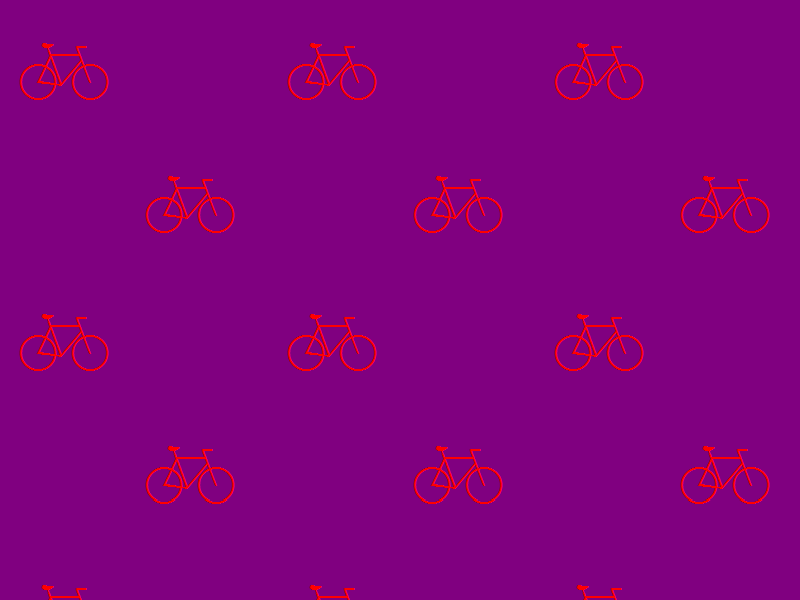
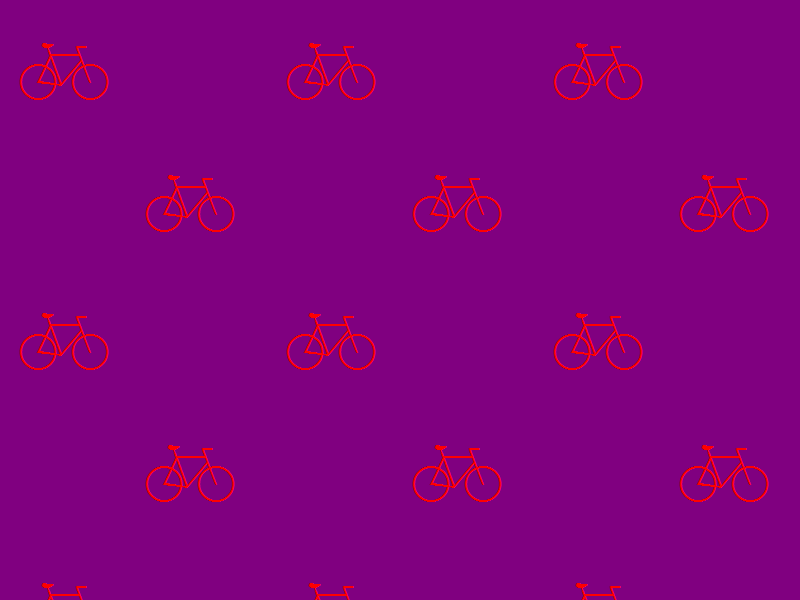
Fix Facebook sidebar.
Relanding http://codereview.chromium.org/20386 (r9836), this time 
with re-baselined layout tests. The change affects the pixel diffs for 
any test with a tiled css background image.

BUG = 5564
TBR= brettw
TEST= layout tests, conveniently re-baselined to pass with this change :)
Review URL: http://codereview.chromium.org/20388

git-svn-id: svn://svn.chromium.org/chrome/trunk@9839 0039d316-1c4b-4281-b951-d872f2087c98

diff --git a/src/skia/sgl/SkBitmapProcState_matrixProcs.cpp b/src/skia/sgl/SkBitmapProcState_matrixProcs.cpp
@@ -28,6 +28,8 @@ void decal_filter_scale(uint32_t dst[], SkFixed fx, SkFixed dx, int count);
 #define TILEX_LOW_BITS(fx, max) (((fx) >> 12) & 0xF)
 #define TILEY_LOW_BITS(fy, max) (((fy) >> 12) & 0xF)
 #define CHECK_FOR_DECAL
+#define TILEX_TRANS(x, max)     SkClampMax(x, max)
+#define TILEY_TRANS(y, max)     SkClampMax(y, max)
 #include "SkBitmapProcState_matrix.h"
 
 #define MAKENAME(suffix)        RepeatX_RepeatY ## suffix
@@ -35,6 +37,8 @@ void decal_filter_scale(uint32_t dst[], SkFixed fx, SkFixed dx, int count);
 #define TILEY_PROCF(fy, max)    (((fy) & 0xFFFF) * ((max) + 1) >> 16)
 #define TILEX_LOW_BITS(fx, max) ((((fx) & 0xFFFF) * ((max) + 1) >> 12) & 0xF)
 #define TILEY_LOW_BITS(fy, max) ((((fy) & 0xFFFF) * ((max) + 1) >> 12) & 0xF)
+#define TILEX_TRANS(x, max)     ((x) % ((max) + 1))
+#define TILEY_TRANS(y, max)     ((y) % ((max) + 1))
 #include "SkBitmapProcState_matrix.h"
 
 #define MAKENAME(suffix)        GeneralXY ## suffix
@@ -44,13 +48,19 @@ void decal_filter_scale(uint32_t dst[], SkFixed fx, SkFixed dx, int count);
 #define PREAMBLE_PARAM_Y        , SkBitmapProcState::FixedTileProc tileProcY
 #define PREAMBLE_ARG_X          , tileProcX
 #define PREAMBLE_ARG_Y          , tileProcY
-#define TILEX_PROCF(fx, max)    (tileProcX(fx) * ((max) + 1) >> 16)
-#define TILEY_PROCF(fy, max)    (tileProcY(fy) * ((max) + 1) >> 16)
-#define TILEX_LOW_BITS(fx, max) ((tileProcX(fx) * ((max) + 1) >> 12) & 0xF)
-#define TILEY_LOW_BITS(fy, max) ((tileProcY(fy) * ((max) + 1) >> 12) & 0xF)
+#define TILEX_PROCF(fx, max)    (tileProcX(fx, max) >> 16)
+#define TILEY_PROCF(fy, max)    (tileProcY(fy, max) >> 16)
+#define TILEX_LOW_BITS(fx, max) ((tileProcX(fx, max) >> 14) & 0x3)
+#define TILEY_LOW_BITS(fy, max) ((tileProcY(fy, max) >> 14) & 0x3)
+#define PREAMBLE_TRANS(state)   SkBitmapProcState::IntTileProc tileProcX = (state).iTileProcX; \
+                                SkBitmapProcState::IntTileProc tileProcY = (state).iTileProcY
+#define TILEX_TRANS(x, max)     tileProcX(x, max)
+#define TILEY_TRANS(y, max)     tileProcY(y, max)
 #include "SkBitmapProcState_matrix.h"
 
-static inline U16CPU fixed_clamp(SkFixed x)
+
+
+static inline SkFixed fixed_clamp(SkFixed x, int max)
 {
 #ifdef SK_CPU_HAS_CONDITIONAL_INSTR
     if (x >> 16)
@@ -66,19 +76,20 @@ static inline U16CPU fixed_clamp(SkFixed x)
             x = 0xFFFF;
     }
 #endif
-    return x;
+    return x * (max + 1);
 }
 
-static inline U16CPU fixed_repeat(SkFixed x)
+static inline SkFixed fixed_repeat(SkFixed x, int max)
 {
-    return x & 0xFFFF;
+    return (x & 0xFFFF) * (max + 1);
 }
 
-static inline U16CPU fixed_mirror(SkFixed x)
+static inline SkFixed fixed_mirror(SkFixed x, int max)
 {
     SkFixed s = x << 15 >> 31;
     // s is FFFFFFFF if we're on an odd interval, or 0 if an even interval
-    return (x ^ s) & 0xFFFF;
+    x = ((x ^ s) & 0xFFFF) * (max + 1);
+    return s ? (x ^ 0xFFFF) : x;
 }
 
 static SkBitmapProcState::FixedTileProc choose_tile_proc(unsigned m)
@@ -91,14 +102,51 @@ static SkBitmapProcState::FixedTileProc choose_tile_proc(unsigned m)
     return fixed_mirror;
 }
 
+static inline int int_clamp(int x, int max)
+{
+    SkASSERT(max >= 0);
+
+    return SkClampMax(x, max);
+}
+
+static inline int int_repeat(int x, int max)
+{
+    SkASSERT(max >= 0);
+
+    return x % (max + 1);
+}
+
+static inline int int_mirror(int x, int max)
+{
+    SkASSERT(max >= 0);
+
+    int dx = x % (max + 1);
+    if (dx < 0)
+        dx = -dx - 1;
+
+    return (x / (max + 1) % 2) ? max - dx : dx;
+}
+
+static SkBitmapProcState::IntTileProc choose_int_tile_proc(unsigned m)
+{
+    if (SkShader::kClamp_TileMode == m)
+        return int_clamp;
+    if (SkShader::kRepeat_TileMode == m)
+        return int_repeat;
+    SkASSERT(SkShader::kMirror_TileMode == m);
+    return int_mirror;
+}
+
 SkBitmapProcState::MatrixProc SkBitmapProcState::chooseMatrixProc()
 {
     int index = 0;
     if (fDoFilter)
         index = 1;
     if (fInvType & SkMatrix::kPerspective_Mask)
-        index |= 4;
+        index |= 6;
     else if (fInvType & SkMatrix::kAffine_Mask)
+        index |= 4;
+    else if (fInvType & SkMatrix::kScale_Mask)
         index |= 2;
 
     if (SkShader::kClamp_TileMode == fTileModeX &&
@@ -123,6 +171,8 @@ SkBitmapProcState::MatrixProc SkBitmapProcState::chooseMatrixProc()
     // only general needs these procs
     fTileProcX = choose_tile_proc(fTileModeX);
     fTileProcY = choose_tile_proc(fTileModeY);
+    iTileProcX = choose_int_tile_proc(fTileModeX);
+    iTileProcY = choose_int_tile_proc(fTileModeY);
     return GeneralXY_Procs[index];
 }
 

diff --git a/src/skia/sgl/SkBitmapProcState_matrix.h b/src/skia/sgl/SkBitmapProcState_matrix.h
@@ -1,4 +1,5 @@
 
+#define TRANSLATE_NOFILTER_NAME MAKENAME(_nofilter_translate)
 #define SCALE_NOFILTER_NAME     MAKENAME(_nofilter_scale)
 #define SCALE_FILTER_NAME       MAKENAME(_filter_scale)
 #define AFFINE_NOFILTER_NAME    MAKENAME(_nofilter_affine)
@@ -16,6 +17,38 @@
     #define PREAMBLE_ARG_X
     #define PREAMBLE_ARG_Y
 #endif
+
+#ifndef PREAMBLE_TRANS
+    #define PREAMBLE_TRANS(state)
+#endif
+
+static void TRANSLATE_NOFILTER_NAME(const SkBitmapProcState& s,
+                                    uint32_t xy[], int count, int x, int y)
+{
+    SkASSERT((s.fInvType & ~SkMatrix::kTranslate_Mask) == 0);
+
+    PREAMBLE_TRANS(s);
+
+    x += SkScalarFloor(s.fInvMatrix->getTranslateX());
+    y += SkScalarFloor(s.fInvMatrix->getTranslateY());
+
+    *xy++ = (uint32_t)TILEY_TRANS(y, (s.fBitmap->height() - 1));
+    
+    unsigned maxX = s.fBitmap->width() - 1;
+    int i;
+    uint16_t* xx = (uint16_t*)xy;
+    for (i = (count >> 2); i > 0; --i)
+    {
+        *xx++ = (uint16_t)TILEX_TRANS(x, maxX); x++;
+        *xx++ = (uint16_t)TILEX_TRANS(x, maxX); x++;
+        *xx++ = (uint16_t)TILEX_TRANS(x, maxX); x++;
+        *xx++ = (uint16_t)TILEX_TRANS(x, maxX); x++;
+    }
+    for (i = (count & 3); i > 0; --i)
+    {
+        *xx++ = (uint16_t)TILEX_TRANS(x, maxX); x++;
+    }
+}
 
 static void SCALE_NOFILTER_NAME(const SkBitmapProcState& s,
                                 uint32_t xy[], int count, int x, int y) {
@@ -241,6 +274,9 @@ static void PERSP_FILTER_NAME(const SkBitmapProcState& s,
 }
 
 static SkBitmapProcState::MatrixProc MAKENAME(_Procs)[] = {
+    TRANSLATE_NOFILTER_NAME,
+    TRANSLATE_NOFILTER_NAME,    // No need to do filtering if the matrix is no
+                                // more complex than identity/translate.
     SCALE_NOFILTER_NAME,
     SCALE_FILTER_NAME,
     AFFINE_NOFILTER_NAME,
@@ -256,6 +292,10 @@ static SkBitmapProcState::MatrixProc MAKENAME(_Procs)[] = {
     #undef CHECK_FOR_DECAL
 #endif
 
+#undef TILEX_TRANS
+#undef TILEY_TRANS
+
+#undef TRANSLATE_NOFILTER_NAME
 #undef SCALE_NOFILTER_NAME
 #undef SCALE_FILTER_NAME
 #undef AFFINE_NOFILTER_NAME
@@ -268,6 +308,8 @@ static SkBitmapProcState::MatrixProc MAKENAME(_Procs)[] = {
 #undef PREAMBLE_PARAM_Y
 #undef PREAMBLE_ARG_X
 #undef PREAMBLE_ARG_Y
+
+#undef PREAMBLE_TRANS
 
 #undef TILEX_LOW_BITS
 #undef TILEY_LOW_BITS

diff --git a/src/skia/sgl/SkBitmapProcState.h b/src/skia/sgl/SkBitmapProcState.h
@@ -39,7 +39,8 @@ struct SkBitmapProcState {
                                  int count,
                                  uint16_t colors[]);
     
-    typedef U16CPU (*FixedTileProc)(SkFixed);   // returns 0..0xFFFF
+    typedef SkFixed (*FixedTileProc)(SkFixed, int);
+    typedef int (*IntTileProc)(int, int);
     
     MatrixProc          fMatrixProc;        // chooseProcs
     SampleProc32        fSampleProc32;      // chooseProcs
@@ -48,6 +49,8 @@ struct SkBitmapProcState {
     SkMatrix            fUnitInvMatrix;     // chooseProcs
     FixedTileProc       fTileProcX;         // chooseProcs
     FixedTileProc       fTileProcY;         // chooseProcs
+    IntTileProc         iTileProcX;         // chooseProcs
+    IntTileProc         iTileProcY;         // chooseProcs
     SkFixed             fFilterOneX;
     SkFixed             fFilterOneY;
 

diff --git a/src/skia/sgl/SkBitmapProcState.cpp b/src/skia/sgl/SkBitmapProcState.cpp
@@ -296,8 +296,9 @@ bool SkBitmapProcState::chooseProcs(const SkMatrix& inv, const SkPaint& paint) {
     }
     const SkMatrix* m;
     
-    if (SkShader::kClamp_TileMode == fTileModeX &&
-            SkShader::kClamp_TileMode == fTileModeY) {
+    if (inv.getType() <= SkMatrix::kTranslate_Mask ||
+        (SkShader::kClamp_TileMode == fTileModeX &&
+         SkShader::kClamp_TileMode == fTileModeY)) {
         m = &inv;
     } else {
         fUnitInvMatrix = inv;
